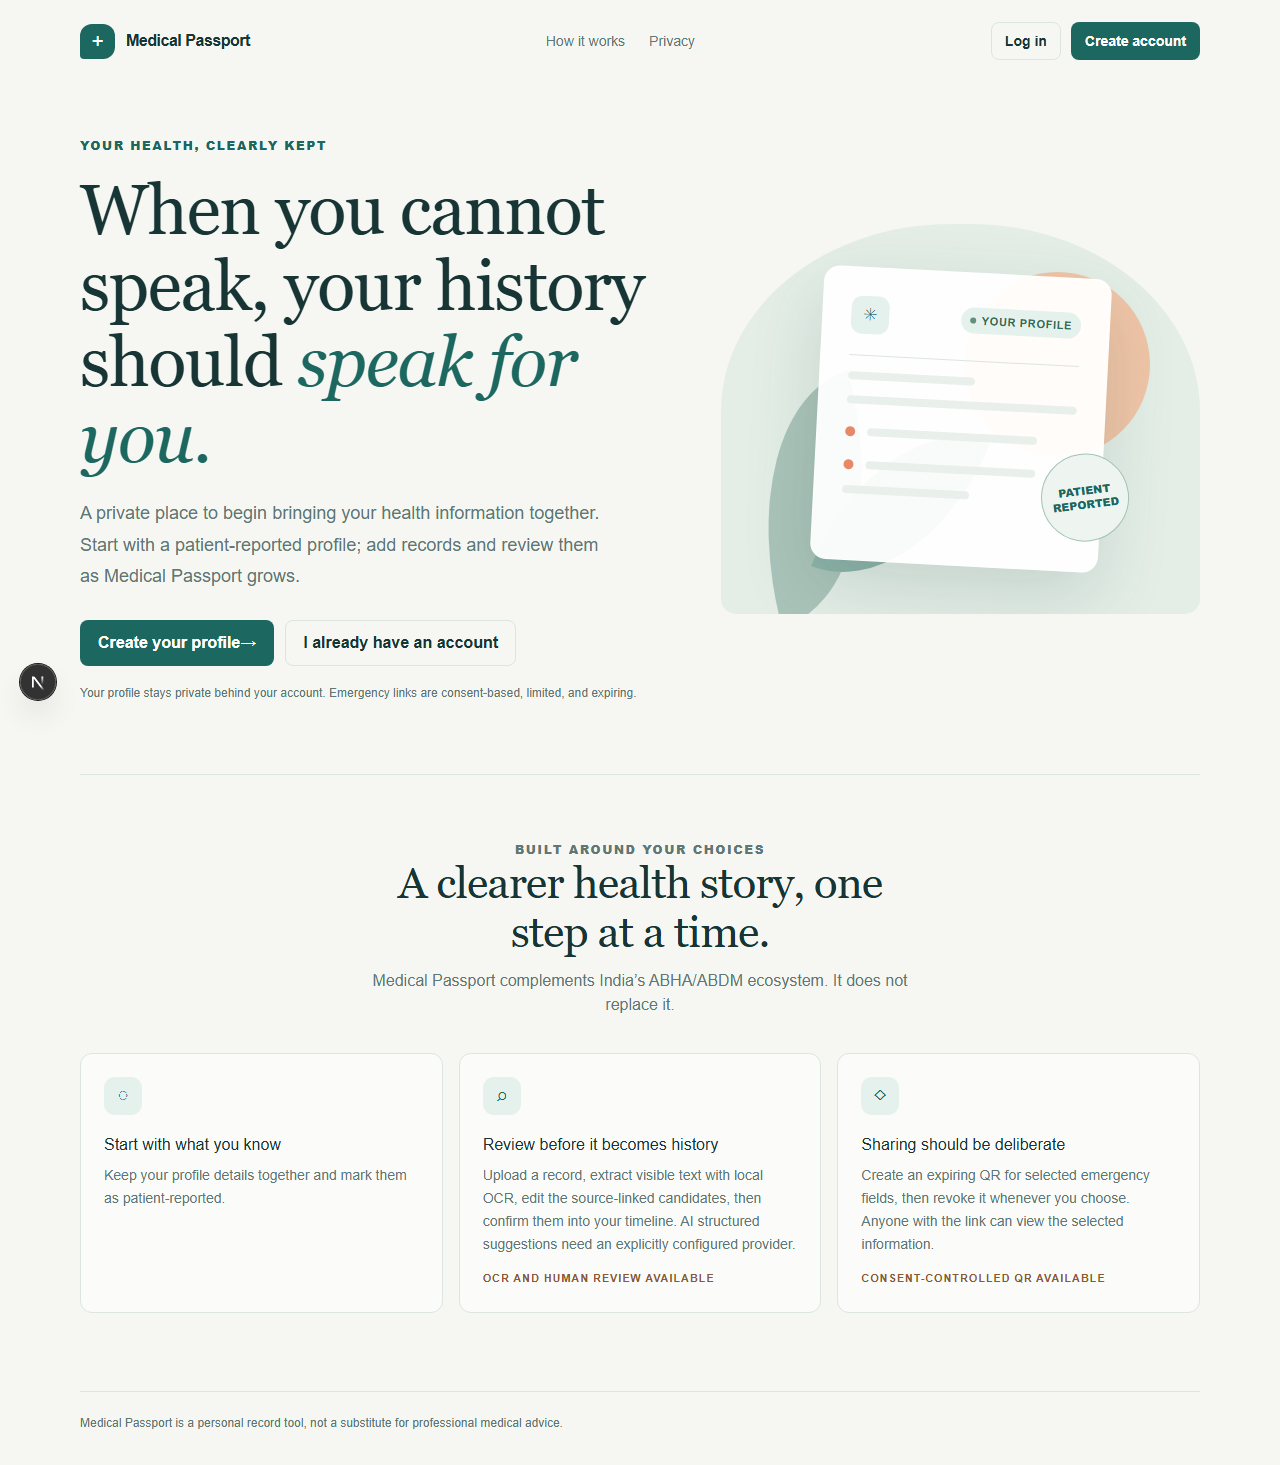
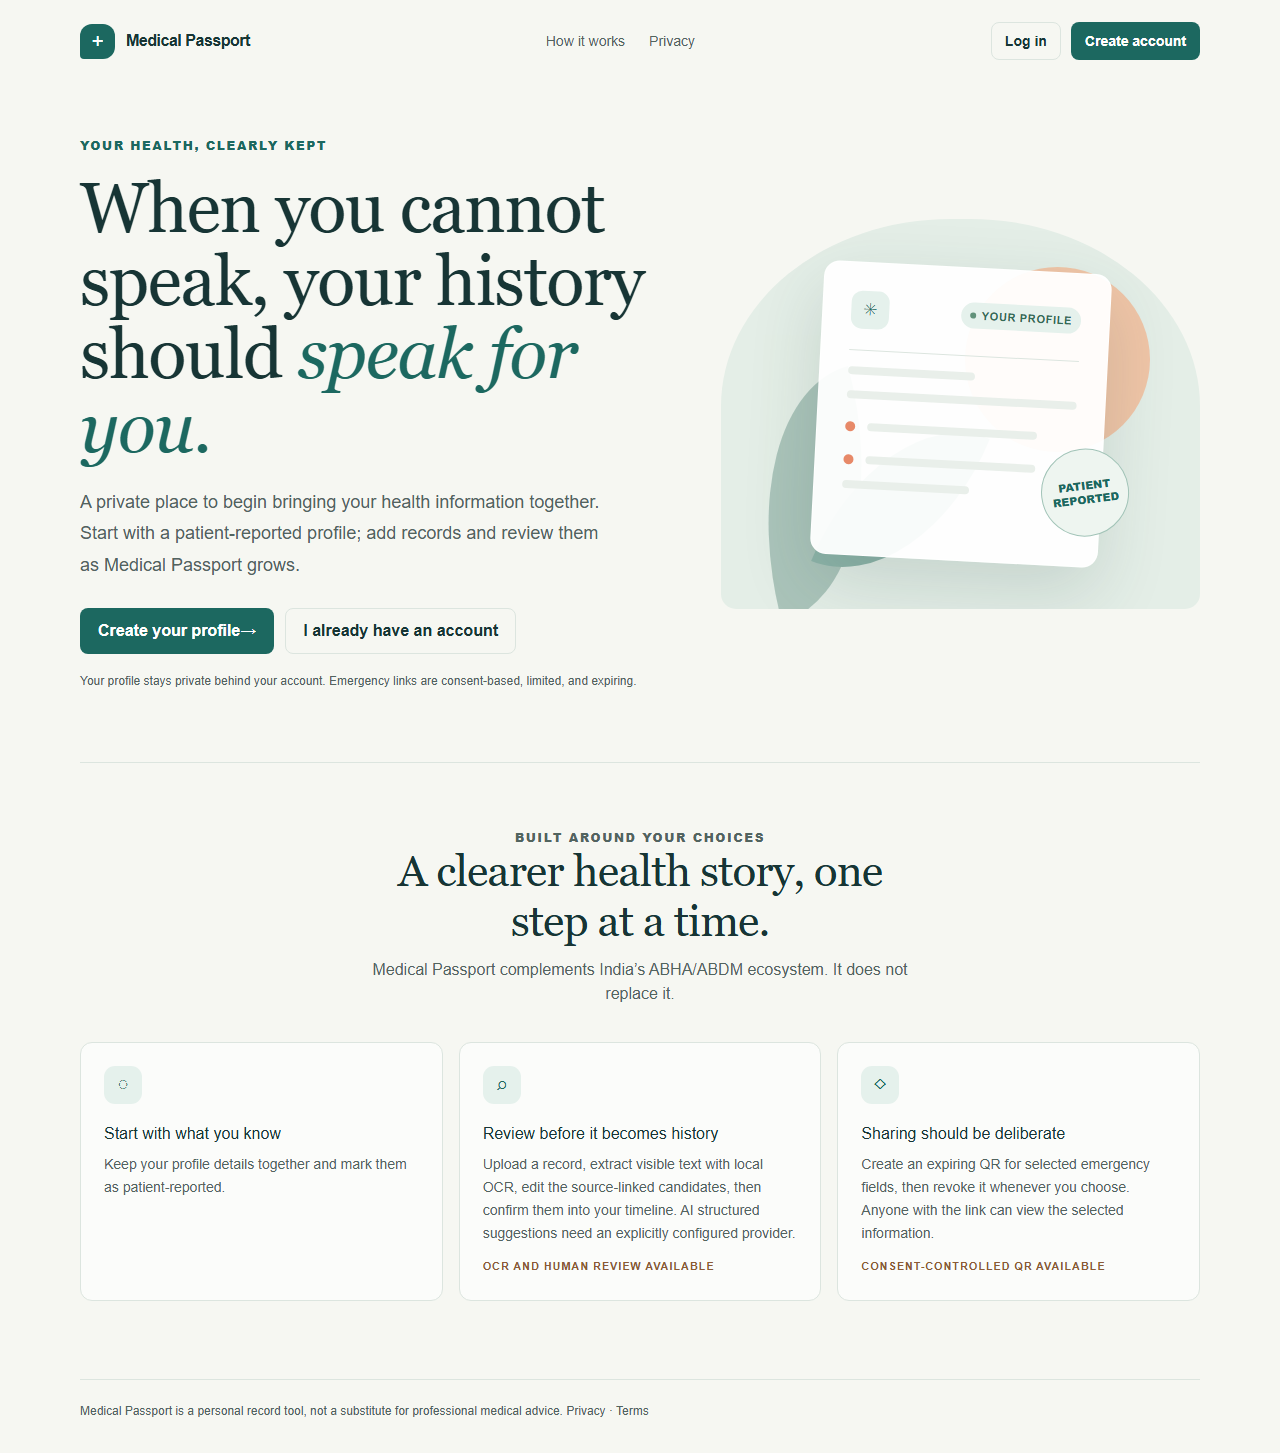
docs: record release verification and limits

diff --git a/README.md b/README.md
@@ -2,7 +2,7 @@
 
 Medical Passport is a private, source-linked personal health record for India. It complements the ABHA/ABDM ecosystem and does not replace it. The application includes the Phase 0/1 account and profile foundation, a protected document vault, local OCR and human review, a source-linked timeline, emergency QR sharing, and family access controls.
 
-The app includes registration, patient profiles, a private document vault, local OCR with human review, source-linked timeline events, expiring emergency QR shares, and account-to-account family access grants. An offline rule-based extractor suggests only text present in the document; items stay pending until the patient reviews them. An optional compatible AI provider can add suggestions, with local rules used if that provider is absent or unavailable. Live ABHA/ABDM exchange is disabled pending sandbox onboarding and credentials. New accounts can sign in before email verification, but emergency-link creation and family profile grants stay locked until verification. Password resets use single-use links and invalidate existing sessions.
+The app includes registration, patient profiles, a private document vault, local OCR with human review, source-linked timeline events, expiring emergency QR shares, and account-to-account family access grants. An offline rule-based extractor suggests only text present in the document; items stay pending until the patient reviews them. An optional compatible AI provider can add suggestions only after per-document consent; local rules are used if the provider is absent or unavailable. Users can review and withdraw recorded privacy consents, export confirmed history as a FHIR R4-aligned bundle, and opt in to an encrypted, device-local emergency card. English/Hindi language switching is available with partial Hindi translation. Live ABHA/ABDM exchange is disabled pending sandbox onboarding and credentials. New accounts can sign in before email verification, but emergency-link creation and family profile grants stay locked until verification. Password resets use single-use links and invalidate existing sessions.
 
 ## Requirements
 
@@ -66,7 +66,9 @@ Email verification uses signed one-time links that expire after 24 hours; passwo
 
 ### PostgreSQL
 
-Set `DATABASE_URL` in `backend/.env` to a SQLAlchemy URL such as `postgresql+psycopg://medical_passport:change-me@localhost:5432/medical_passport`, then run `alembic upgrade head`. Production startup requires at least one valid `DOCUMENT_ENCRYPTION_KEYS` value (or the legacy single-key variable), `COOKIE_SECURE=true`, HTTPS `CORS_ORIGINS` and `PUBLIC_APP_URL`, a PostgreSQL `DATABASE_URL`, and `MALWARE_SCAN=clamav`. Set `TRUSTED_PROXY_COUNT` to the number of trusted proxy hops (default `0` trusts only the socket address; set it only when the app is behind your own proxy chain). Back up the database, private upload directory, and all active Fernet keys; losing every key makes encrypted medical data unreadable. Accounts can download metadata/profile/timeline exports or permanently delete the account from **Data & privacy**. Rate limiting uses in-memory counters by default; setting `REDIS_URL` selects a shared Redis counter. Authentication limits fail closed if Redis is unavailable, while public emergency lookups fail open so a Redis outage does not block emergency access. This project does not claim production readiness or ABDM certification.
+Set `DATABASE_URL` in `backend/.env` to a SQLAlchemy URL such as `postgresql+psycopg://medical_passport:change-me@localhost:5432/medical_passport`, then run `alembic upgrade head`. Production startup requires at least one valid `DOCUMENT_ENCRYPTION_KEYS` value (or the legacy single-key variable), `COOKIE_SECURE=true`, HTTPS `CORS_ORIGINS` and `PUBLIC_APP_URL`, a PostgreSQL `DATABASE_URL`, `REDIS_URL`, `TRUSTED_PROXY_COUNT>=1`, and `MALWARE_SCAN=clamav`. Set `TRUSTED_PROXY_COUNT` to the number of trusted proxy hops; use it only behind that proxy chain. Back up the database, private upload directory, and all active Fernet keys; losing every key makes encrypted medical data unreadable. Accounts can download metadata/profile/timeline exports or permanently delete the account from **Data & privacy**. Authentication limits fail closed if Redis is unavailable, while public emergency lookups fail open so a Redis outage does not block emergency access. This project does not claim production readiness, regulatory compliance, clinical validation, or ABDM certification.
+
+The optional offline card stores only selected emergency fields encrypted in this browser's IndexedDB. It is device-specific; a lost device or forgotten PIN can make the card inaccessible, and anyone who can unlock the device and knows the PIN can read it. Remove the card from the emergency page when it is no longer needed. The PWA service worker caches only static shell assets and never caches API or emergency responses. English/Hindi switching currently covers selected interface sections; complete Hindi translation and an independent accessibility audit remain open. See [the roadmap](docs/ROADMAP.md) for current verification status and remaining work.
 
 #### Encryption key rotation
 

diff --git a/docs/ROADMAP.md b/docs/ROADMAP.md
@@ -11,5 +11,6 @@
 | 6 | Family profiles and explicit dependent authorization | Dependent profiles, existing-account sharing, role-based switching, document read/write permissions, archival with history retention, and QR/grant revocation implemented and tested; legal authority remains an attestation |
 | 7 | Security hardening, multi-worker rate limiting, end-to-end tests, pilot preparation | Implemented with automated coverage for email verification/reset, session revocation, Redis-backed shared rate limits, ClamAV fail-closed upload scanning, encrypted document/OCR/candidate storage and key rotation, request/log/header hardening, PostgreSQL migrations, container definitions, CI, and deployment guidance. The current workstation has no Docker executable, so Compose interpolation and image builds remain unverified here. External security review, DPDP/legal review, operational backup/restore validation, and supervised-pilot approval remain open. |
 | 8 | ABHA/ABDM adapter after official docs, credentials, authorization, and approvals | Status UI and disabled connector are tested; live integration is externally blocked. ABDM describes sandbox-based ABHA API integration in its [official integration challenge material](https://abdm.gov.in/hackathon) |
+| 9 | Consent, privacy controls, AI opt-in, export, localization, offline access, accessibility | Consent records and withdrawal, configured-provider consent gate, confirmed-history FHIR R4-aligned export, English/Hindi UI language switch, encrypted opt-in offline emergency card, installable PWA shell, first-run checklist, and automated axe checks implemented. See limitations below. |
 
-Local OCR, rule extraction, source-linked review, timeline filters/editing/deletion, emergency QR, expiry/revocation/renewal, field selection, access history, family document permissions, dependent archival, account export/deletion, email verification/reset, rate-limit failure modes, malware scanning, and encryption rotation have automated coverage. The browser journey covers registration/login, email verification/reset, extraction review/confirmation, timeline, QR access/renewal/revocation, family switching, export, and deletion. Live email delivery, AI-provider behavior, PostgreSQL service execution, and Docker images have not been verified against deployed services in this environment. ABHA/ABDM is externally blocked pending official sandbox docs/access, credentials, approvals, and verified API workflows. The user-provided dependent-authority checkbox is an attestation and does not establish legal authority. Pilot operation still requires Docker/Compose validation, restore testing, external security review, and legal/privacy review.
+Local OCR, rule extraction, source-linked review, timeline filters/editing/deletion, emergency QR, expiry/revocation/renewal, field selection, access history, family document permissions, dependent archival, account export/deletion, consent and withdrawal, AI consent gating, FHIR export, and encryption rotation have automated coverage. The browser journey includes registration/login, email verification/reset, extraction review/confirmation, timeline, QR access/renewal/revocation, family switching, export, deletion, opt-in encrypted offline card, responsive layout checks, and axe scans. English/Hindi translation is partial: shared navigation, authentication, selected forms and page headings are translated; full Hindi coverage is not complete. Accessibility automation is an initial axe scan of selected screens, not a complete WCAG audit. Offline emergency access stores selected fields encrypted in browser IndexedDB; it is device-specific and does not support remote wipe. Live email delivery, external AI-provider behavior, PostgreSQL service execution, Docker images, and production Redis/ClamAV operations have not been verified against deployed services in this environment. ABDM credentials are not configured; live integration remains disabled pending sandbox onboarding, credentials, authorization, and verified API workflows. The user-provided dependent-authority checkbox is an attestation and does not establish legal authority. No regulatory compliance, clinical validation, or production readiness is claimed. Pilot operation still requires Docker/Compose validation, restore testing, external security review, and legal/privacy review.

diff --git a/PROJECT_LOG.md b/PROJECT_LOG.md
@@ -186,3 +186,10 @@
 - **Verification:** Backend install from `requirements-dev.txt` succeeded; Ruff format check reported 43 files already formatted; Ruff check passed; `pytest -q` reported **36 passed, 1 Starlette/httpx deprecation warning**. An isolated SQLite database upgraded through `b1c4e7a90d25`; `alembic check` reported no new operations. Frontend `npm ci --no-audit --no-fund` succeeded with 365 packages; `npx tsc --noEmit`, `npx eslint src`, and optimized `npm run build -- --webpack` passed (13 routes). Playwright against the production build reported **1 passed (1.2m)**, covering the full registration, document, timeline, emergency, family, ABHA-status, responsive-layout, export, and deletion journey with no unexpected browser/API errors.
 - **Verification limitations:** Sandboxed Windows process restrictions caused the first pytest invocation and some frontend build invocations to stall or fail while starting subprocesses; the checks passed when run with the required local process access. The default Turbopack production build could not start its CSS worker in this environment; the supported webpack production build passed. A development-server E2E attempt also exposed a login-input hydration warning after client-side route changes; the full production E2E run had no console errors and passed its browser-error assertion. Both servers used an isolated temporary SQLite database and upload directory; the configured development database and uploads were not used.
 - **Release status:** The hardening branch is not a production-readiness claim. Shared rate limiting, malware scanning, OCR-text encryption, live AI-provider validation, legal/clinical/security review, and approved ABHA/ABDM sandbox credentials remain open.
+
+## 2026-11-22 — Consent, export, localization, offline access, and release checks
+
+- **Implemented:** Recorded terms/privacy and emergency-sharing consents with withdrawal and active-link revocation; gated configured AI extraction on per-document consent and removed exact patient names and number sequences before provider calls; added confirmed-history FHIR R4-aligned export; added an English/Hindi switcher with partial Hindi coverage; added an installable static PWA shell and opt-in PIN-encrypted, device-local emergency card; added a dashboard first-run checklist, emergency loading state, and selected axe accessibility scans. Privacy and deployment docs now state product, legal, and operational limits.
+- **Accessibility corrections:** Axe found the muted text color narrowly below WCAG AA contrast in common screens. The shared muted color is darker now. The document preview iframe is hidden from assistive technology and paired with a direct open-in-new-tab link.
+- **Verification:** Backend Ruff lint and format checks passed; backend tests passed (**83 passed, 1 Starlette/httpx deprecation warning**) using `pytest -q --basetemp=.pytest-tmp` because pytest's default Windows sandbox temp path exceeded the platform path limit. An isolated SQLite database upgraded through all migrations and `alembic check` reported no new operations. Frontend TypeScript, ESLint, and webpack production build passed. Chromium Playwright end-to-end journey passed (**1 passed in 2.0 minutes**) with selected WCAG 2.1 A/AA axe scans, including signup/login, document review, emergency sharing, public scan, offline card, consent withdrawal, exports, and responsive checks. `git diff --check` passed.
+- **Verification limits:** `npm ci` did not complete in this Windows checkout because Windows returned `EPERM` while npm replaced a native `lightningcss` file, including after an approved retry. Dependencies were restored with `npm install --no-audit --no-fund`; TypeScript, ESLint, build, and Playwright then passed. Docker/Compose is unavailable on this workstation; Postgres service runtime, external Redis/ClamAV/email operations, deployed AI-provider behavior, and backup restore have not been verified. `ABDM_CLIENT_ID`, `ABDM_CLIENT_SECRET`, and `ABDM_BASE_URL` are unset; the connector remains disabled. Hindi translation is partial, axe coverage is a selected-screen smoke scan rather than a full accessibility audit, and the placeholder legal text needs jurisdiction-specific review. No production-readiness, regulatory-compliance, clinical-validation, or ABDM-certification claim is made.

diff --git a/docs/DEPLOYMENT.md b/docs/DEPLOYMENT.md
@@ -25,7 +25,6 @@ Copy `.env.example` to `.env` and replace every example value. Compose reads thi
 | `EMAIL_PROVIDER` | Yes | `smtp` or `resend` in production; console delivery is development only. |
 | `SMTP_HOST`, `SMTP_PORT`, `SMTP_USERNAME`, `SMTP_PASSWORD`, `SMTP_STARTTLS`, `SMTP_USE_SSL`, `EMAIL_FROM` | For SMTP | Configure authenticated TLS delivery. Use either STARTTLS or implicit TLS. |
 | `RESEND_API_KEY`, `EMAIL_FROM` | For Resend | Configure the Resend API provider and a verified sender. |
-| `REDIS_URL` | Recommended | Shared rate-limit store. Compose points to its internal Redis service. Auth routes fail closed when configured Redis is unavailable. |
 | `MALWARE_SCAN` | `clamav` | Production requires scanning. Compose points the API at the ClamAV service. |
 | `CLAMAV_HOST`, `CLAMAV_PORT`, `CLAMAV_TIMEOUT_SECONDS` | Yes | Scanner service address and timeout; Compose supplies the internal host and port. |
 | `TRUSTED_PROXY_COUNT` | Yes | Production requires at least `1` trusted proxy hop appending `X-Forwarded-For`. Compose defaults to `1` because the API is called through Next.js; local direct access may use `0`. |
@@ -74,6 +73,12 @@ docker compose up -d --no-build
 ```
 
 The API service should be private behind the web app and the approved TLS proxy. Do not use sample passwords, console email, HTTP, or empty encryption keys in a pilot. Verify `/readyz`, email verification/reset delivery, upload scanning, and an encrypted document read before enabling real users.
+
+The installable PWA service worker caches only static shell assets. It bypasses API, document, and emergency routes. An optional emergency card is encrypted with a user PIN in browser IndexedDB; it is local to the device, has no remote wipe, and is exposed if an attacker can unlock that browser and knows the PIN. Users must opt in and can remove it in the app. This feature is a convenience for device loss of connectivity, not a backup or a substitute for carrying current emergency information.
+
+The application records consent for its stated purposes, including AI processing and emergency sharing. Configure an external medical AI provider only after reviewing its data handling and obtaining appropriate consent. The user interface includes English/Hindi switching, but the Hindi translation is partial. Terms and privacy content are product placeholders and require jurisdiction-specific legal review before a pilot. The automated axe checks cover selected screens and do not establish WCAG conformance.
+
+ABDM connectivity is disabled. No `ABDM_CLIENT_ID`, `ABDM_CLIENT_SECRET`, or `ABDM_BASE_URL` is configured in this environment; sandbox onboarding, credentials, authorization, and API validation remain prerequisites. The FHIR download is a local R4-aligned export and is not an ABDM/NHCX connection or certification.
 
 ## Reverse proxy and client IP
 
